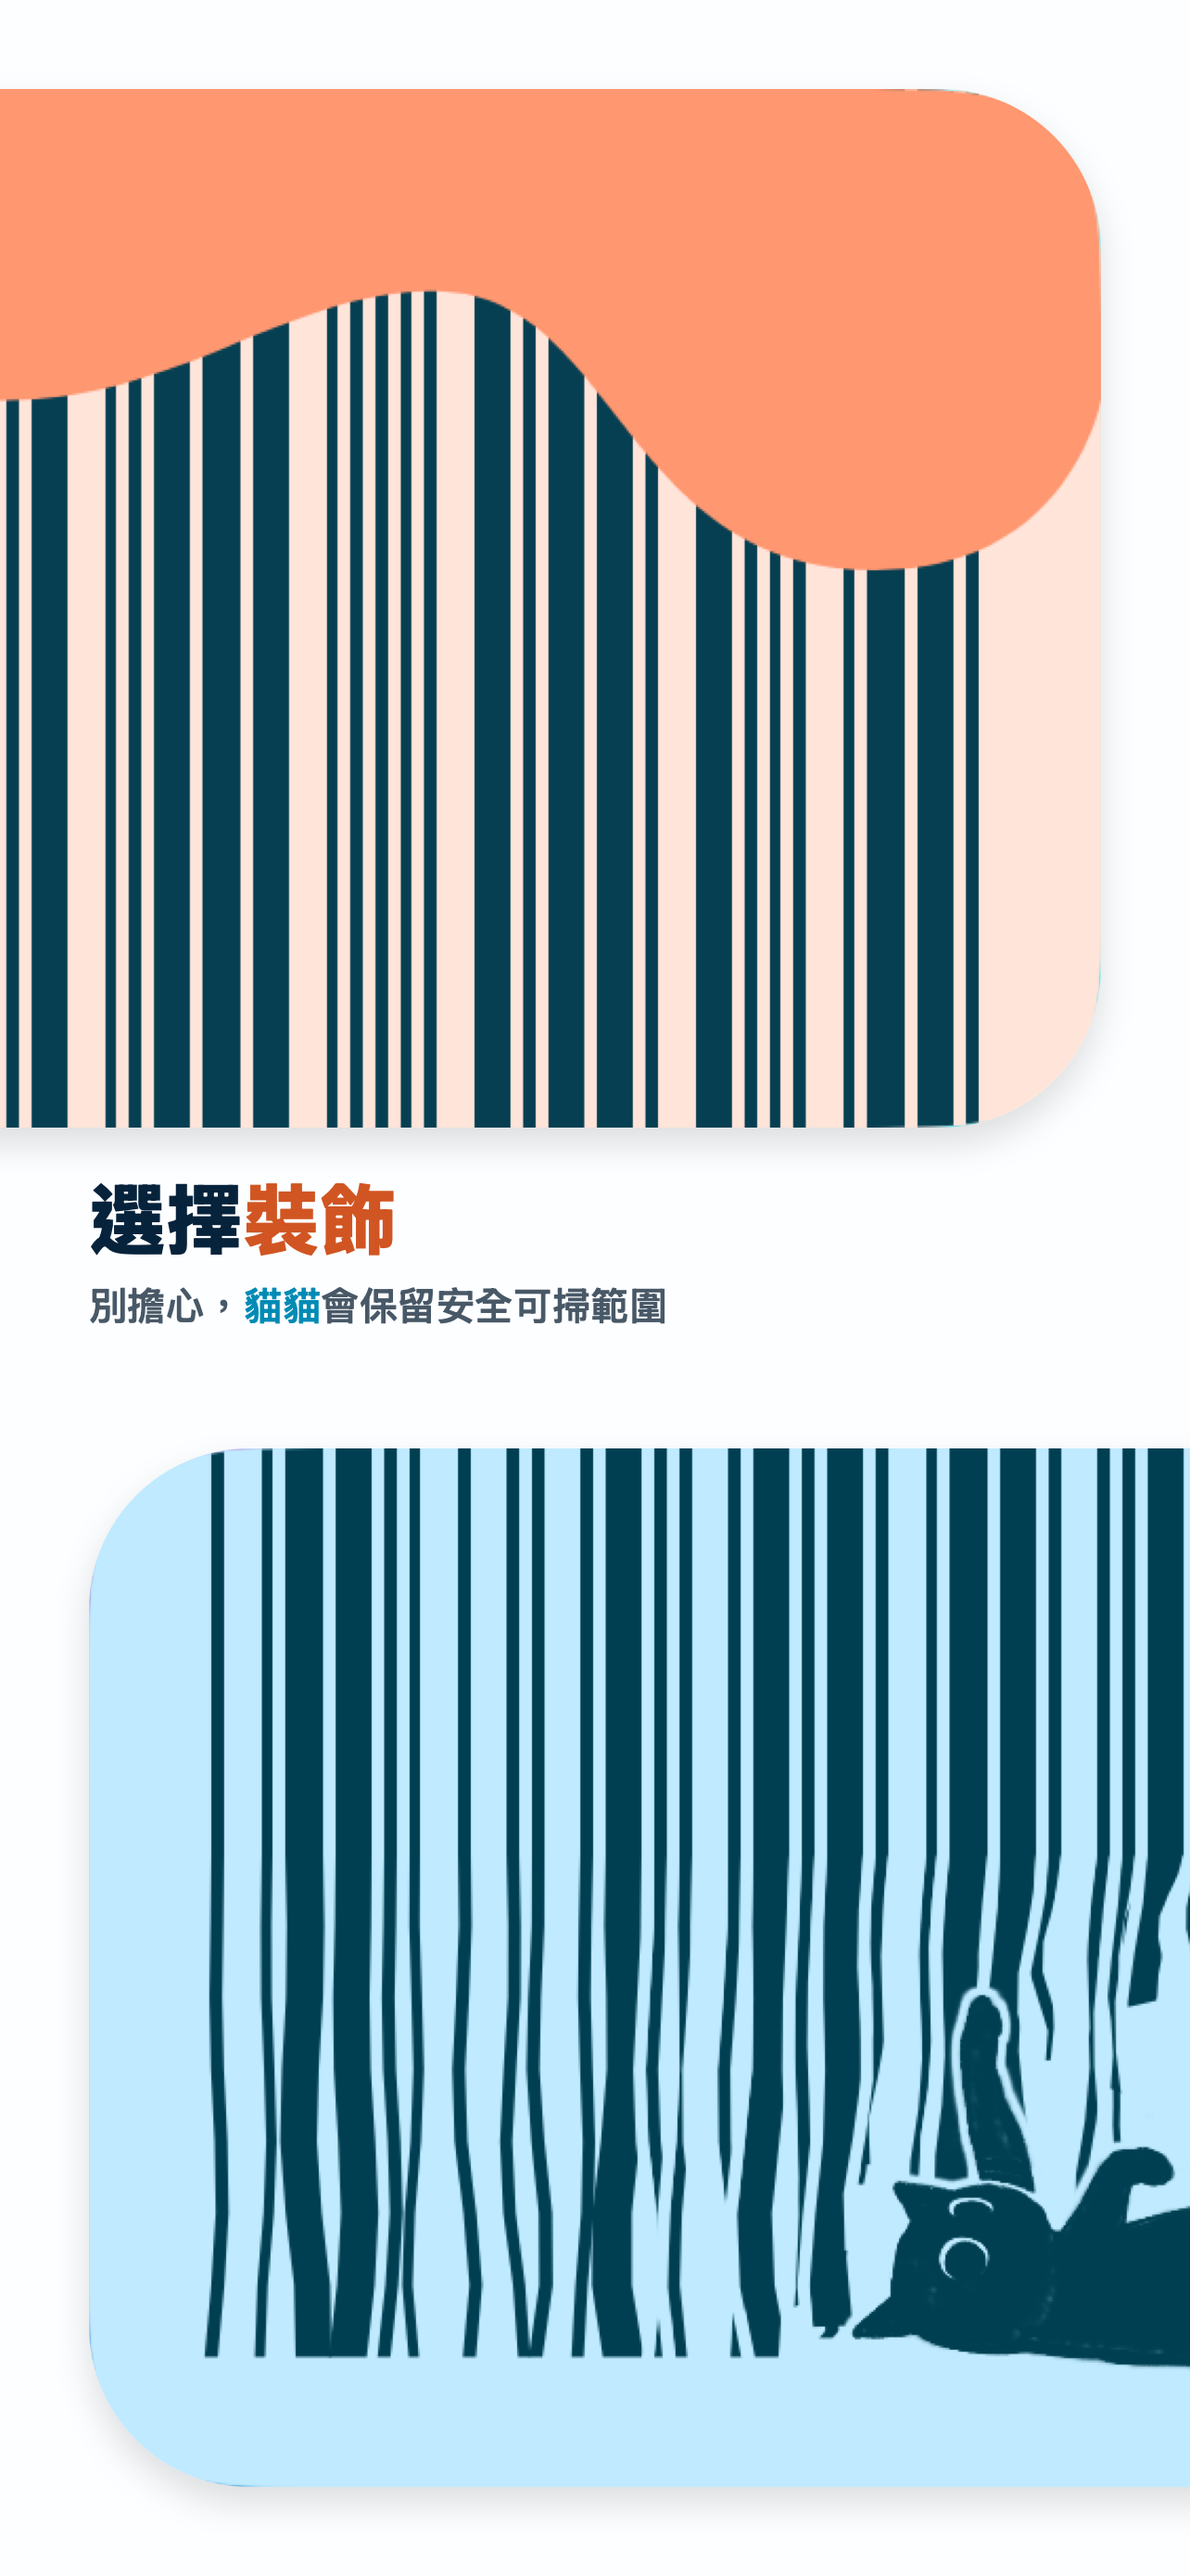
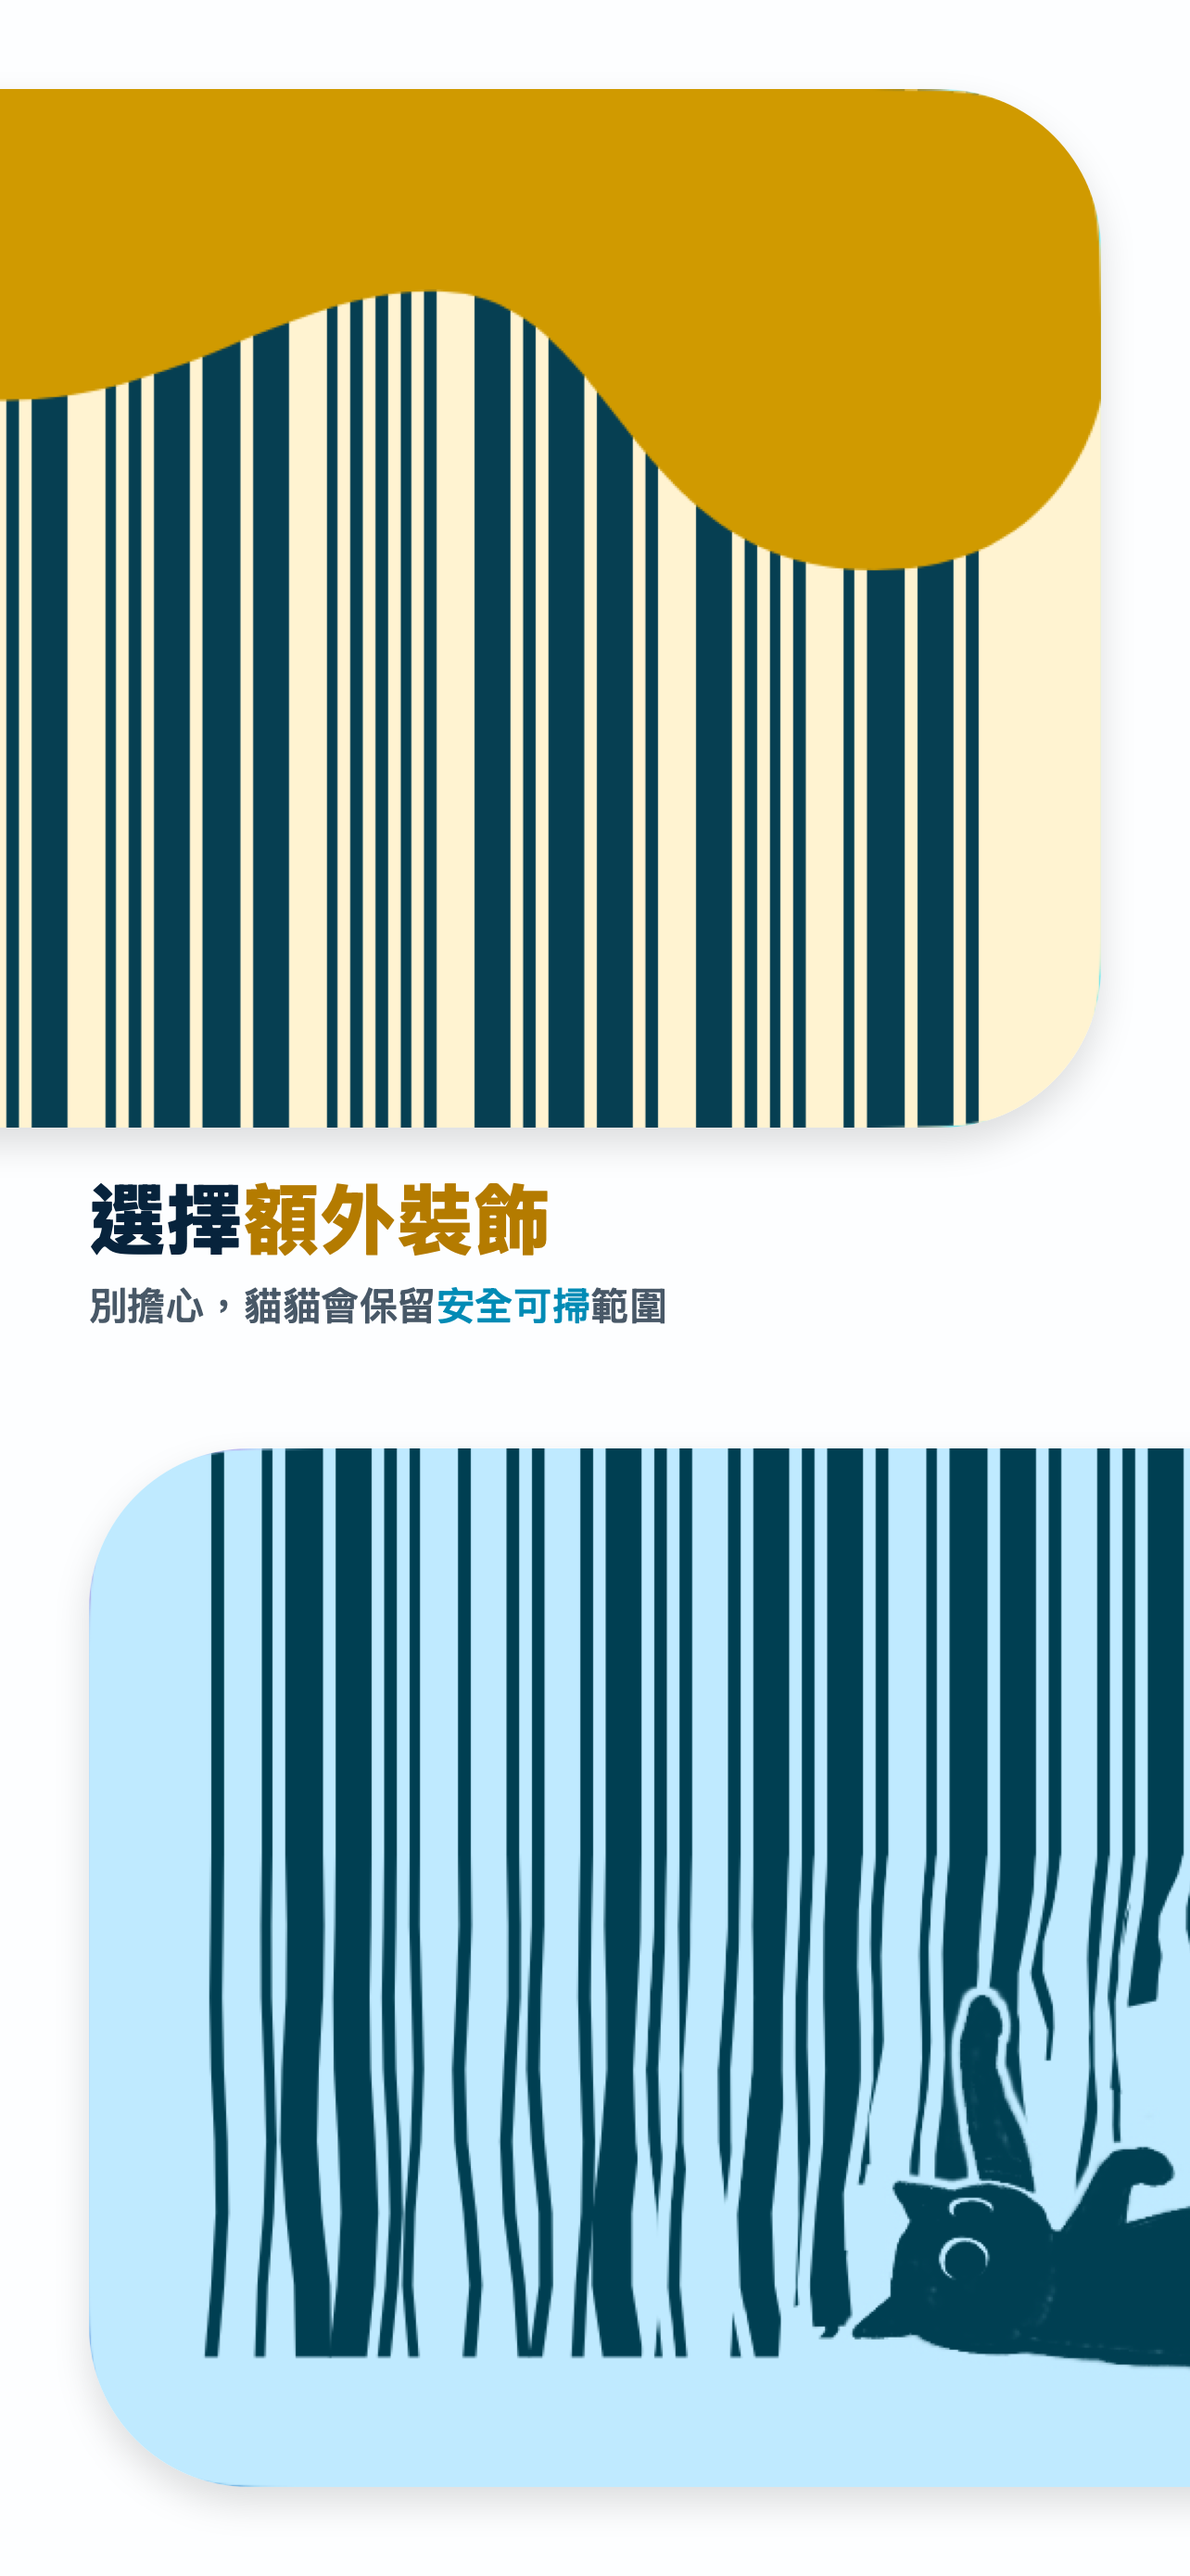
feat: focus screenshot color emphasis

Changed region(s): [[0.0, 0.031, 0.9346, 0.2477], [0.1869, 0.4334, 0.4984, 0.5263]]

diff --git a/scripts/ios-compose-app-store-screenshots.swift b/scripts/ios-compose-app-store-screenshots.swift
@@ -14,7 +14,7 @@ private enum Artwork {
     static let ink = NSColor(calibratedRed: 0.035, green: 0.102, blue: 0.180, alpha: 1)
     static let muted = NSColor(calibratedRed: 0.220, green: 0.275, blue: 0.330, alpha: 1)
     static let logoBlueText = NSColor(calibratedRed: 0.020, green: 0.470, blue: 0.650, alpha: 1)
-    static let logoOrangeText = NSColor(calibratedRed: 0.770, green: 0.250, blue: 0.105, alpha: 1)
+    static let logoYellowText = NSColor(calibratedRed: 0.640, green: 0.410, blue: 0.000, alpha: 1)
 }
 
 private struct Arguments {
@@ -167,16 +167,16 @@ private struct Composer {
                 subtitle: "載具小工具不再破壞桌布氛圍",
                 titleTop: CGFloat(2_430),
                 subtitleTop: CGFloat(2_556),
-                titleAccents: [("桌布配色", Artwork.logoOrangeText)],
-                subtitleAccents: [("小工具", Artwork.logoOrangeText)]
+                titleAccents: [("桌布配色", Artwork.logoYellowText)],
+                subtitleAccents: []
             ),
             (
-                title: "選擇裝飾",
+                title: "選擇額外裝飾",
                 subtitle: "別擔心，貓貓會保留安全可掃範圍",
                 titleTop: CGFloat(1_260),
                 subtitleTop: CGFloat(1_380),
-                titleAccents: [("裝飾", Artwork.logoOrangeText)],
-                subtitleAccents: [("貓貓", Artwork.logoBlueText)]
+                titleAccents: [("額外裝飾", Artwork.logoYellowText)],
+                subtitleAccents: [("安全可掃", Artwork.logoBlueText)]
             ),
             (
                 title: "好看，也好掃",
@@ -184,10 +184,10 @@ private struct Composer {
                 titleTop: CGFloat(96),
                 subtitleTop: CGFloat(222),
                 titleAccents: [
-                    ("好看", Artwork.logoOrangeText),
+                    ("好看", Artwork.logoYellowText),
                     ("好掃", Artwork.logoBlueText),
                 ],
-                subtitleAccents: [("反射率規範", Artwork.logoBlueText)]
+                subtitleAccents: [("商用反射率規範", Artwork.logoBlueText)]
             ),
         ]
 

diff --git a/design-qa.md b/design-qa.md
@@ -1,26 +1,27 @@
 # App Store Screenshot Design QA
 
-- Source visual truth: `/tmp/colorinvo-v2-panorama.png`, revised by the latest user brief to swap the two widgets, center each decoration on a panel seam, use logo-orange and logo-blue scan-safe palettes, and distribute copy bottom / middle / top.
+- Source visual truth: `/tmp/colorinvo-orange-panorama.png`, revised by the latest user brief to replace the orange paint stripe with dark yellow and restrict color emphasis to named benefit phrases.
 - Implementation screenshots: `/Users/hsi/Projects/Apps/Mobile/ColorInvo/assets/screenshots/colorinvo-iphone-6-5-01-wallpaper-palette.png`, `/Users/hsi/Projects/Apps/Mobile/ColorInvo/assets/screenshots/colorinvo-iphone-6-5-02-decorations.png`, `/Users/hsi/Projects/Apps/Mobile/ColorInvo/assets/screenshots/colorinvo-iphone-6-5-03-scanner-widget.png`
 - Viewport: three adjacent 1284 × 2778 App Store screenshots; combined panorama 3852 × 2778.
-- State: Traditional Chinese showcase data, light appearance, orange paint widget and blue cat widget.
-- Full-view comparison evidence: `/tmp/colorinvo-v2-v3-comparison.png`.
-- Focused comparison evidence: `/tmp/colorinvo-v3-standalone-contact.png` verifies the three isolated-card crops and the center-card composition.
+- State: Traditional Chinese showcase data, light appearance, dark-yellow paint widget and blue cat widget.
+- Full-view comparison evidence: `/tmp/colorinvo-orange-yellow-comparison.png`.
+- Focused comparison evidence: `/tmp/colorinvo-yellow-standalone-contact.png` verifies the three isolated-card crops, copy emphasis, and the center-card composition.
 
 ## Findings
 
 - No actionable P0, P1, or P2 differences remain.
-- Fonts and typography: headlines increased from 72 px bold to 88 px black; supporting text increased from 36 px medium to 44 px semibold. Selected phrases use darker accessible derivatives of the logo orange and blue, while the remaining text keeps the established navy hierarchy. All copy remains on one line without truncation.
-- Spacing and layout rhythm: the orange paint widget begins 96 px from the panorama's top-left and the blue cat widget ends 96 px from the bottom-right. Both retain their native 329:155 ratio. Their frames are centered on the first and second panel seams respectively. Card 1 copy sits at the bottom, card 2 copy occupies the space between widgets, and card 3 copy sits at the top.
-- Colors and visual tokens: the decoration uses the exact app-icon orange `#FF9770`; the blue widget uses a scanner-safe tint derived from the app-icon blue `#70D6FF`. Under the app's red-light reflectance model, the blue pair has background/bar reflectance 0.749/0.000 and symbol contrast 0.749; the orange pair has 1.000/0.024 and symbol contrast 0.976. Both exceed the 0.70 commercial guidance threshold.
+- Fonts and typography: headlines remain 88 px black and supporting text remains 44 px semibold. Color emphasis is limited to 桌布配色、額外裝飾、安全可掃、商用反射率規範、好看 and 好掃. All other words use the established navy hierarchy, and all copy remains on one line without truncation.
+- Spacing and layout rhythm: the dark-yellow paint widget begins 96 px from the panorama's top-left and the blue cat widget ends 96 px from the bottom-right. Both retain their native 329:155 ratio. Their frames are centered on the first and second panel seams respectively. Card 1 copy sits at the bottom, card 2 copy occupies the space between widgets, and card 3 copy sits at the top.
+- Colors and visual tokens: the paint stripe uses a dark-yellow derivative `#D09A00` of the app-icon yellow; its scanner-safe background is `#FFF3D1`. The blue widget retains its tint derived from app-icon blue `#70D6FF`. Under the app's red-light reflectance model, the blue pair has background/bar reflectance 0.749/0.000 and symbol contrast 0.749; the yellow pair has 1.000/0.024 and symbol contrast 0.976. Both exceed the 0.70 commercial guidance threshold.
 - Image quality and asset fidelity: both elements are real widget captures, not reconstructed illustrations. Their native masks, barcode geometry, cat damage treatment, paint shape, and shadows remain sharp at 1284 × 2778 output.
-- Copy and content: the three supplied messages appear verbatim and are positioned in the requested bottom / middle / top sequence.
+- Copy and content: card 2 now reads 選擇額外裝飾. The requested benefit phrases are highlighted exactly, and the three messages retain the bottom / middle / top sequence.
 
 ## Comparison History
 
 1. The previous two-widget version used one blue palette, placed the cat upper-left and paint lower-right, and aligned all copy at the top.
 2. The revised implementation swaps the widgets, introduces brand-derived scan-safe orange and blue states, centers each widget on its seam, and redistributes the copy to use the negative space.
-3. The full panorama and isolated-card comparison found no remaining P0, P1, or P2 issues.
+3. The latest refinement replaced the orange paint state with dark yellow, changed 裝飾 to 額外裝飾, and removed emphasis from 小工具 and 貓貓 in favor of the requested benefit phrases.
+4. The full panorama and isolated-card comparison found no remaining P0, P1, or P2 issues.
 
 ## Open Questions
 
@@ -31,9 +32,9 @@
 - [x] Swap paint and cat widget positions.
 - [x] Center both widget frames on their respective seams.
 - [x] Preserve the native widget aspect ratio and shared 96 px outer inset.
-- [x] Use distinct orange and blue brand palettes without violating commercial reflectance guidance.
+- [x] Use distinct dark-yellow and blue brand palettes without violating commercial reflectance guidance.
 - [x] Place card copy at the bottom, between the widgets, and at the top.
-- [x] Increase font size and weight and add selective brand-color emphasis.
+- [x] Restrict brand-color emphasis to the six requested benefit phrases.
 - [x] Verify all three 1284 × 2778 outputs and standalone crops.
 
 ## Follow-up Polish
